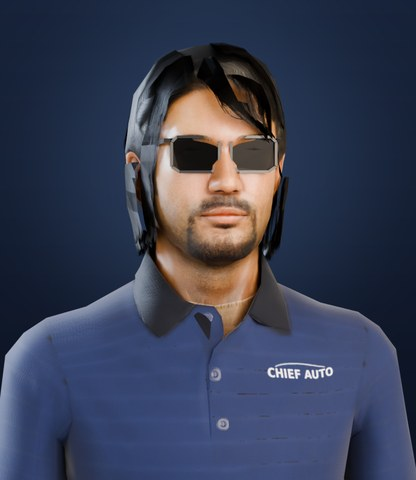
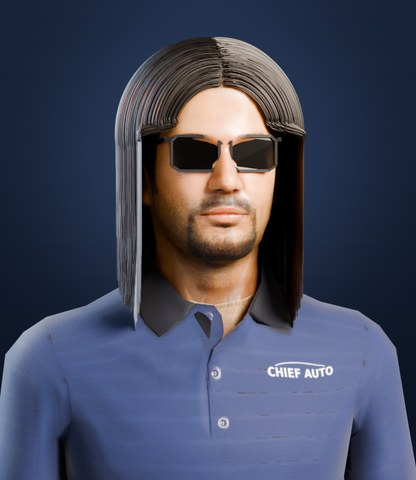
Maruchan: long straight dark strand hair (Curves + Principled Hair, roots on the real skull, centre parting, falls to the shoulders) replaces the flat hair cards; body, faces, portrait re-rendered
Claude-Session: https://claude.ai/code/session_01NPxWDMmDr35mH1YXpri3Ec

diff --git a/tools/people3d.py b/tools/people3d.py
@@ -30,9 +30,9 @@ STAFF = {
     "marco": {"base": "Male_Adult_01", "legs": "Business_Male_01", "legs_tint": 0.6, "hair_cards": False,
               "strand_hair": True, "head_maps": "Male_Adult_05",
               "stocky": True, "glasses": "clear", "watch": True},
-    # Maruchan: Female_Adult_14's layered long dark hair (not in the walk-in pool), dyed black, sunglasses
+    # Maruchan: long straight dark strand hair to the shoulders, combed from a crown parting (long_hair), sunglasses
     "maruchan": {"base": "Male_Adult_01", "legs": "Business_Male_01", "legs_tint": 0.7, "hair_cards": False,
-                 "hair_from": "Female_Adult_14", "hair_tint": (0.06, 0.055, 0.05), "head_maps": "Male_Adult_15",
+                 "long_hair": True, "head_maps": "Male_Adult_15",
                  "glasses": "sun", "watch": False},
 }
 SRCS = []
@@ -789,6 +789,149 @@ def transplant_hair(arm, meshes, donor_folder, tint=(0.05, 0.047, 0.045)):
     meshes.append(dob)
 
 
+def long_hair(arm, meshes, count=42000, points=26, seed=7, melanin=0.96):
+    """Long straight dark hair as real curves (a Curves object, Principled Hair): roots on an ellipsoid fitted to the
+    posed skull (forehead and face left bare), each strand combed away from a crown parting, hugging the skull and
+    then falling straight to the shoulders. Parented to the head bone so moods and poses carry it."""
+    import random
+    rnd = random.Random(seed)
+    bpy.context.view_layer.update()
+    hp = head_pos(arm)
+    fwd, _ = facing(arm)
+    up = Vector((0, 0, 1))
+    side = fwd.cross(up).normalized()
+    fwd = up.cross(side).normalized()
+    # skull ellipsoid from the posed head-material vertices above the head bone
+    ob = meshes[0]
+    dg = bpy.context.evaluated_depsgraph_get()
+    ev = ob.evaluated_get(dg)
+    me = ev.to_mesh()
+    hidx = [i for i, sl in enumerate(ob.material_slots) if sl.material.name.split(".")[0].endswith("head")][0]
+    vids = {v for p in me.polygons if p.material_index == hidx for v in p.vertices}
+    mw = ob.matrix_world
+    pts = [mw @ me.vertices[v].co for v in vids]
+    # the real skull surface (head polygons, world space) in hair-frame coordinates, for ray casts from the centre
+    from mathutils.bvhtree import BVHTree
+    hpolys = [list(p.vertices) for p in me.polygons if p.material_index == hidx]
+    hverts_w = [mw @ v.co for v in me.vertices]
+    ev.to_mesh_clear()
+    pts = [p for p in pts if p.z > hp.z + 0.02]
+    loc = [Vector(((p - hp).dot(side), (p - hp).dot(fwd), (p - hp).dot(up))) for p in pts]
+    lo = Vector([min(q[i] for q in loc) for i in range(3)])
+    hi = Vector([max(q[i] for q in loc) for i in range(3)])
+    ctr = (lo + hi) / 2
+    rad = (hi - lo) / 2
+    ctr.z = hi.z - rad.x * 1.05            # a skull is about as tall above its centre as it is wide
+    rad.z = hi.z - ctr.z
+    rad.y *= 0.98
+
+    hverts = [Vector(((p - hp).dot(side), (p - hp).dot(fwd), (p - hp).dot(up))) for p in hverts_w]
+    bvh = BVHTree.FromPolygons(hverts, hpolys)
+
+    def surface(q, shell):
+        """q pushed out to shell x the skull surface along the ray from the centre (unchanged if already outside)."""
+        dv = q - ctr
+        L = dv.length
+        if L < 1e-6:
+            return q
+        hit = bvh.ray_cast(ctr, dv / L)
+        if hit[0] is None:
+            return q
+        dh = (hit[0] - ctr).length * shell
+        return ctr + dv / L * dh if L < dh else q
+
+    def world(q):
+        return hp + side * q.x + fwd * q.y + up * q.z
+
+    def g(q):
+        d = q - ctr
+        return (d.x / rad.x) ** 2 + (d.y / rad.y) ** 2 + (d.z / rad.z) ** 2
+
+    def normal(q):
+        d = q - ctr
+        return Vector((d.x / rad.x ** 2, d.y / rad.y ** 2, d.z / rad.z ** 2)).normalized()
+
+    crown = ctr + Vector((0, -rad.y * 0.25, rad.z))
+    bottom = -(ctr.z + rad.z) * 0.0 - 0.13      # shoulder length: 13 cm below the head bone
+    step = 0.0085
+    strands = []
+    while len(strands) < count:
+        u = Vector((rnd.gauss(0, 1), rnd.gauss(0, 1), rnd.gauss(0, 1))).normalized()
+        if u.z < -0.05:
+            continue
+        # bare forehead and face; hairline a little higher at the temples
+        if u.y > 0.3 and u.z < 0.32 + 0.12 * abs(u.x):
+            continue
+        if u.y > 0.6 and u.z < 0.5:
+            continue
+        shell = 1.012 + rnd.random() ** 1.5 * 0.06
+        q = surface(ctr + Vector((u.x, u.y, u.z)) * 0.001, shell)
+        d = q - crown
+        if q.y > crown.y:
+            # centre parting: hair in front of the crown is swept to the sides and back, never over the face
+            d = Vector((math.copysign(1.0, u.x if abs(u.x) > 1e-3 else rnd.random() - 0.5), -0.35, -0.25))
+        n = normal(q)
+        d = (d - n * d.dot(n))
+        if d.length < 1e-6:
+            d = -Vector((0, 1, 0))
+        d.normalize()
+        path = [q.copy()]
+        for i in range(points - 1):
+            n = normal(q)
+            hanging = q.z < ctr.z - rad.z * 0.15
+            down = Vector((0, 0, -1))
+            if hanging:
+                d = (d * 0.08 + down * 0.92).normalized()
+                d.y = min(d.y, 0.0) if q.y < ctr.y + rad.y * 0.2 else d.y
+            else:
+                d = (d + down * 0.18)
+                d = (d - n * d.dot(n)).normalized()
+            q = q + d * step * (1.6 if hanging else 1.0)
+            q = surface(q, shell)
+            # hanging strands stay beside the face: anything in front of the ears is pushed out to the cheek line
+            if q.z < ctr.z and q.y > ctr.y - rad.y * 0.1 and abs(q.x - ctr.x) < rad.x * 0.96:
+                q.x = ctr.x + math.copysign(rad.x * 0.96, q.x - ctr.x)
+            if q.z < bottom - rnd.random() * 0.025:
+                q.z = bottom - rnd.random() * 0.025
+            path.append(q.copy())
+        strands.append([world(p) for p in path])
+    cv = bpy.data.hair_curves.new("long_hair")
+    cv.add_curves([points] * len(strands))
+    flat = [c for s_ in strands for p in s_ for c in p]
+    cv.attributes["position"].data.foreach_set("vector", flat)
+    if "radius" not in cv.attributes:
+        cv.attributes.new("radius", "FLOAT", "POINT")
+    rads = []
+    for s_ in strands:
+        for i in range(points):
+            rads.append(0.00045 * (1.0 - 0.6 * i / (points - 1)))
+    cv.attributes["radius"].data.foreach_set("value", rads)
+    m = bpy.data.materials.new("long_hair_mat")
+    m.use_nodes = True
+    nt = m.node_tree
+    nt.nodes.clear()
+    out = nt.nodes.new("ShaderNodeOutputMaterial")
+    hb = nt.nodes.new("ShaderNodeBsdfHairPrincipled")
+    hb.parametrization = "MELANIN"
+    hb.inputs["Melanin"].default_value = melanin
+    hb.inputs["Melanin Redness"].default_value = 0.3
+    hb.inputs["Roughness"].default_value = 0.26
+    hb.inputs["Radial Roughness"].default_value = 0.35
+    hb.inputs["Random Color"].default_value = 0.1
+    hb.inputs["Random Roughness"].default_value = 0.15
+    nt.links.new(hb.outputs[0], out.inputs[0])
+    cv.materials.append(m)
+    hob = bpy.data.objects.new("long_hair", cv)
+    bpy.context.scene.collection.objects.link(hob)
+    wm = hob.matrix_world.copy()
+    hob.parent = arm
+    hob.parent_type = "BONE"
+    hob.parent_bone = "Bip01 Head"
+    bpy.context.view_layer.update()
+    hob.matrix_world = wm
+    return hob
+
+
 def head_top(meshes, hp):
     """Highest point of the posed mesh (hair included) above the head."""
     dg = bpy.context.evaluated_depsgraph_get()
@@ -914,6 +1057,8 @@ def do_avatar(folder, out, pid, staff=None):
         relax_pose(arm)
     if staff and staff.get("glasses"):
         add_glasses(arm, staff["glasses"])
+    if staff and staff.get("long_hair"):
+        long_hair(arm, meshes)
     if staff and staff.get("watch"):
         add_watch(arm)
     cam = studio((520, 1100))
